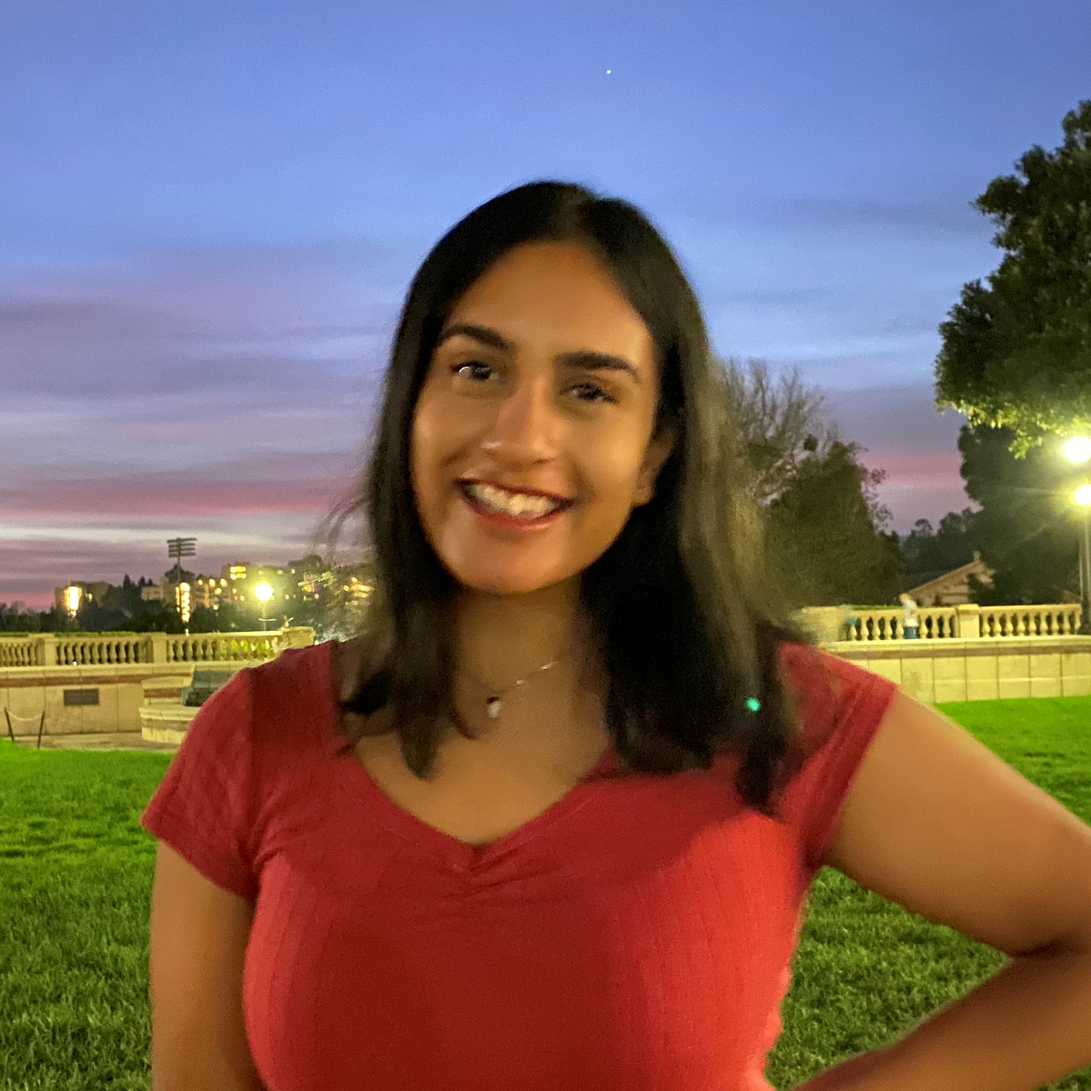
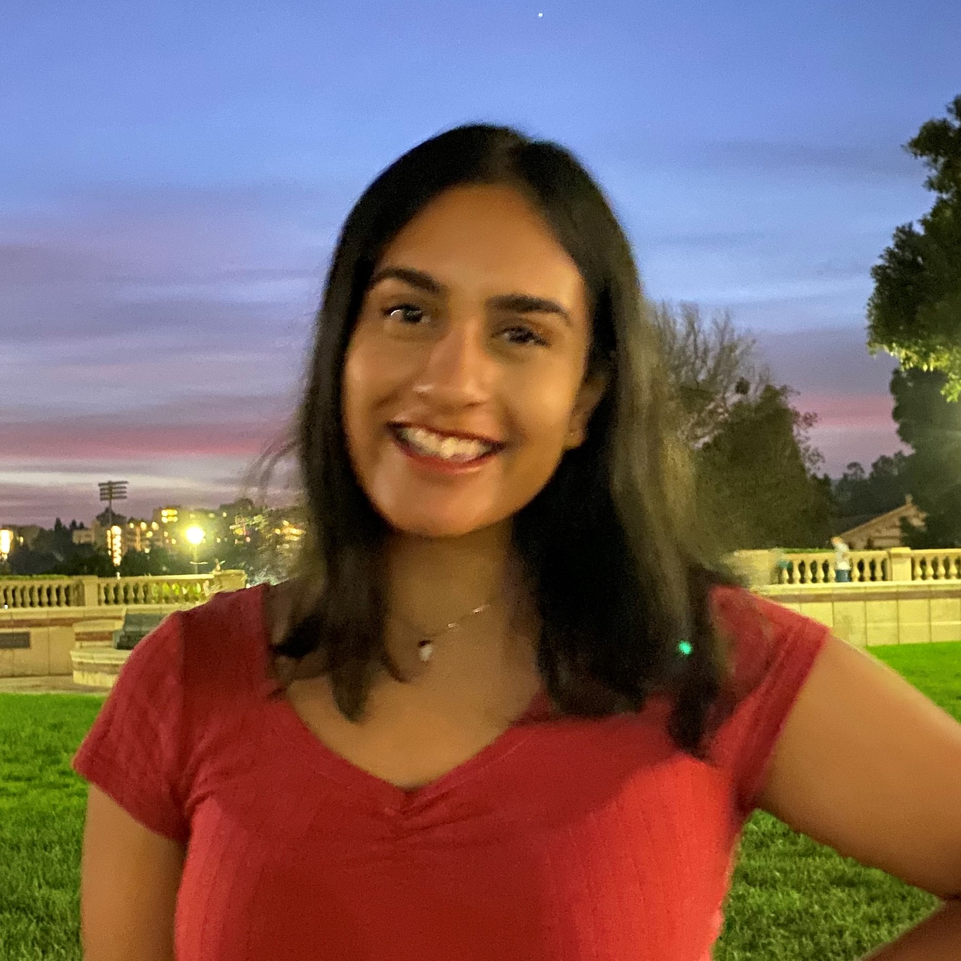
team members :)

diff --git a/src/components/About.js b/src/components/About.js
@@ -2,25 +2,224 @@ import React from 'react';
 
 function About() {
    return (
-      <div className="About" class="card yellow-scheme">
-         <h1><div>About</div></h1>
-         <div class="team">
-            <h2>Team:</h2>
-            <div class="names">
-               <div class="names-col">
-                  <div> christine kim <span class="names-pronouns">(they/she)</span></div>
-                  <div> diantha ngo <span class="names-pronouns">(she/her)</span></div>
-                  <div> karina ting <span class="names-pronouns">(she/her)</span></div>
-                  <div> rithika srinivasan <span class="names-pronouns">(she/her)</span></div>
+      <div className="About">
+         <div class="team-section card purple-scheme">
+            <div class="team-bio">
+               <img src={require("../img/christine_headshot.jpeg")} alt="christine headshot" class="team-image" width="225px" />
+               <div class="team-bio-text">
+                  <h1>Christine (Minjeong) Kim <span class="names-pronouns">(they/them)</span></h1>
+                  <div class="team-blurb">
+                     <span class="team-header">Role: </span>
+                     external co-director
+                  </div>
+                  <div class="team-blurb">
+                     <span class="team-header">Major; Year: </span>
+                     computer science, 2024
+                  </div>
                </div>
-               <div class="names-col">
-                  <div> spurthi rallapalli <span class="names-pronouns">(she/her)</span></div>
-                  <div> tanya zhong <span class="names-pronouns">(she/her)</span></div>
-                  <div> vaughn chu <span class="names-pronouns">(he/him)</span></div>
+            </div>
+            <div class="team-blurb">
+               <span class="team-header">What I Do: </span>
+               I oversee sponsorship, coprogramming, and publicity and design to make sure everything is on schedule and working in conjunction with what we need internally.
+            </div>
+            <div class="team-blurb">
+               <span class="team-header">Why: </span>
+               QWER Hacks to me is an event with the central purpose of helping marginalized individuals in the tech community feel seen and heard because we exist. Having the chance to work on the first steps of countering erasure by holding our hackathon is something I'm fortunate and grateful to be a part of.
+            </div>
+            <div class="team-blurb">
+               <span class="team-header">I'm Excited About... </span>
+               I'm really looking forward to being able to offer QWER Hacks 2022 in a hybrid format! We'll be combining the versatility and reach of the virtual aspect with the personalization and atmosphere of an in-person event.
+            </div>
+         </div>
+
+
+
+         <div class="team-section card peach-scheme">
+            <div class="team-bio">
+               <img src={require("../img/diantha_headshot.jpg")} alt="diantha headshot" class="team-image" width="225px" />
+               <div class="team-bio-text">
+                  <h1>Diantha Ngo <span class="names-pronouns">(she/her)</span></h1>
+                  <div class="team-blurb">
+                     <span class="team-header">Role: </span>
+                     media and publicity chair
+                  </div>
+                  <div class="team-blurb">
+                     <span class="team-header">Major; Year: </span>
+                     bioengineering, 2022
+                  </div>
                </div>
+            </div>
+            <div class="team-blurb">
+               <span class="team-header">What I Do: </span>
+               I'm responsible for designing QWER Hacks' visual theme and promotional materials, as well as the swag that participants receive! I also raise hell on our social media accounts.
+            </div>
+            <div class="team-blurb">
+               <span class="team-header">Why: </span>
+               I'm very happy to be able to contribute to such a welcoming and loving community, especially in the world of tech, which could benefit from more diverse voices and perspectives that I strive to empower through my work with QWER Hacks.
+            </div>
+            <div class="team-blurb">
+               <span class="team-header">I'm Excited About... </span>
+               I'm really excited about being able to host the hackathon in-person and put on another amazing event with my even more amazing organizer team! And the balloon animal artist who's going to be there, of course.
+            </div>
+         </div>
+
+
+
+         <div class="team-section card yellow-scheme">
+            <div class="team-bio">
+               <img src={require("../img/karina_headshot.jpg")} alt="karina headshot" class="team-image" width="225px" />
+               <div class="team-bio-text">
+                  <h1>Karina Ting <span class="names-pronouns">(she/her/hers)</span></h1>
+                  <div class="team-blurb">
+                     <span class="team-header">Role: </span>
+                     finance
+                  </div>
+                  <div class="team-blurb">
+                     <span class="team-header">Major; Year: </span>
+                     mechanical engnieering, 2022
+                  </div>
+               </div>
+            </div>
+            <div class="team-blurb">
+               <span class="team-header">What I Do: </span>
+               As finance chair, I help out with calculating and minimizing the costs in our budget, which include venue, catering, prizes, swag, etc. I'll also be working on funding applications so we can get money to help cover these costs.
+            </div>
+            <div class="team-blurb">
+               <span class="team-header">Why: </span>
+               I work on qwer hacks because diversity and representation in tech is so important! I feel incredibly lucky that I get to work with the everyone on the qwer hacks team to help create an inclusive and celebratory space for our community.
+            </div>
+            <div class="team-blurb">
+               <span class="team-header">I'm Excited About... </span>
+               I'm excited to see all the creative and impactful products that our hackers build!
+            </div>
+         </div>
+
+
+
+         <div class="team-section card green-scheme">
+            <div class="team-bio">
+               <img src={require("../img/rithika_headshot.jpeg")} alt="Rithika headshot" class="team-image" width="225px" />
+               <div class="team-bio-text">
+                  <h1>Rithika <span class="names-pronouns">(she/her)</span></h1>
+                  <div class="team-blurb">
+                     <span class="team-header">Role: </span>
+                     sponsorship
+                  </div>
+                  <div class="team-blurb">
+                     <span class="team-header">Major; Year: </span>
+                     computer science, 2022
+                  </div>
+               </div>
+            </div>
+            <div class="team-blurb">
+               <span class="team-header">What I Do: </span>
+               I communicate with company sponsors and assist their representatives with participating in in QWER Hacks as mentors and recruiters.
+            </div>
+            <div class="team-blurb">
+               <span class="team-header">Why: </span>
+               I have often felt intimidated by hackathons and how they focus so much on technical lessons, but QWER Hacks integrates community, identity, and technical elements all together. I work on QWER Hacks to help form an accepting culture that reminds all attendees that there is a space for them in tech.
+            </div>
+            <div class="team-blurb">
+               <span class="team-header">I'm Excited About... </span>
+               I am excited for Lil Nas X to perform at our event!! (Jk this is very much me trying to manifest it happening and likely will not be true... unless? :eyes:) BUT REGARDLESS I'M MOST EXCITED FOR THE PEOPLE AND THE VIBESSS
+            </div>
+         </div>
+
+
+
+         <div class="team-section card blue-scheme">
+            <div class="team-bio">
+               <img src={require("../img/spurthi_headshot.jpg")} alt="Spurthi headshot" class="team-image" width="225px" />
+               <div class="team-bio-text">
+                  <h1>Spurthi Rallapalli <span class="names-pronouns">(she/her/hers)</span></h1>
+                  <div class="team-blurb">
+                     <span class="team-header">Role: </span>
+                     coprogramming
+                  </div>
+                  <div class="team-blurb">
+                     <span class="team-header">Major; Year: </span>
+                     computer science, 2022
+                  </div>
+               </div>
+            </div>
+            <div class="team-blurb">
+               <span class="team-header">What I Do: </span>
+               I work on putting together speakers and workshops, and organizing volunteers and judges! Basically lots of day-of logistics!
+            </div>
+            <div class="team-blurb">
+               <span class="team-header">Why: </span>
+               I’m super passionate about creating safe and welcome spaces for people in engineering + stem, and QWER Hacks does just that! Super excited to be on the team this year 🥰
+            </div>
+            <div class="team-blurb">
+               <span class="team-header">I'm Excited About... </span>
+               Very excited to (hopefully) have an in person aspect for my last year here and also hang out with some of my favorite people in the universe!!!
+            </div>
+         </div>
+
+
+
+         <div class="team-section card indigo-scheme">
+            <div class="team-bio">
+               <img src={require("../img/tanya_headshot.png")} alt="tanya headshot" class="team-image" width="225px" />
+               <div class="team-bio-text">
+                  <h1>Tanya Zhong <span class="names-pronouns">(she/her)</span></h1>
+                  <div class="team-blurb">
+                     <span class="team-header">Role: </span>
+                     dev
+                  </div>
+                  <div class="team-blurb">
+                     <span class="team-header">Major; Year: </span>
+                     computer science, 2022
+                  </div>
+               </div>
+            </div>
+            <div class="team-blurb">
+               <span class="team-header">What I Do: </span>
+               I maintain this website and the Qwer Hacks Discord bot!
+            </div>
+            <div class="team-blurb">
+               <span class="team-header">Why: </span>
+               I feel it is my responsibility to make sure the spaces in which I work/live are as inclusive as possible. I enjoy using my web dev skills to further the gay agenda.
+            </div>
+            <div class="team-blurb">
+               <span class="team-header">I'm Excited About... </span>
+               interacting with our lovely hackers in person! (hopefully)
+            </div>
+         </div>
+
+
+
+         <div class="team-section card purple-scheme">
+            <div class="team-bio">
+               <img src={require("../img/vaughn_headshot.jpg")} alt="Vaughn headshot" class="team-image" width="225px" />
+               <div class="team-bio-text">
+                  <h1>Vaughn Chu <span class="names-pronouns">(he/him/his)</span></h1>
+                  <div class="team-blurb">
+                     <span class="team-header">Role: </span>
+                     internal technical director
+                  </div>
+                  <div class="team-blurb">
+                     <span class="team-header">Major; Year: </span>
+                     electrical engineering, 2024
+                  </div>
+               </div>
+            </div>
+            <div class="team-blurb">
+               <span class="team-header">What I Do: </span>
+               I lead the internal committee of QWER Hacks, where my primary role is to provide needed resources, support, and leadership to my team. I ensure that we are working on schedule, getting all of our logistics organized, and improving QWER Hacks in any way possible!
+            </div>
+            <div class="team-blurb">
+               <span class="team-header">Why: </span>
+               I work on QWER Hacks because I care about bringing more visibility to the queer and trans community worldwide and creating a space where people like us can feel safe. Being a part of this team has given me the opportunity to be around amazing and passionate people who share these same missions and goals.
+            </div>
+            <div class="team-blurb">
+               <span class="team-header">I'm Excited About... </span>
+               I'm excited to meet all of our attendees and hear your stories. Personally, QWER Hacks has given me the space to discover my own identity, become more empowered, and grow into the person I am now, and I'm excited for this to be shared with all of you!
             </div>
          </div>
       </div>
+
+
    );
 }
 

diff --git a/src/index.scss b/src/index.scss
@@ -60,7 +60,8 @@ h2,
 h3,
 h4,
 h5,
-h6 {
+h6,
+.team-header {
   font-family: "kenokylight", sans-serif;
   letter-spacing: 3px;
   margin-top: 0.3em;
@@ -88,7 +89,8 @@ h6 {
   a {
     color: $text-purple;
   }
-  .tracks-image {
+  .tracks-image,
+  .team-image {
     filter: drop-shadow(0 0 1rem $palette-purple);
   }
 }
@@ -99,7 +101,8 @@ h6 {
   a {
     color: $text-peach;
   }
-  .tracks-image {
+  .tracks-image,
+  .team-image {
     filter: drop-shadow(0 0 1rem $palette-peach);
   }
 }
@@ -110,7 +113,8 @@ h6 {
   a {
     color: $text-yellow;
   }
-  .tracks-image {
+  .tracks-image,
+  .team-image {
     filter: drop-shadow(0 0 1rem $palette-yellow);
   }
 }
@@ -121,7 +125,8 @@ h6 {
   a {
     color: $text-indigo;
   }
-  .tracks-image {
+  .tracks-image,
+  .team-image {
     filter: drop-shadow(0 0 1rem $palette-indigo);
   }
 }
@@ -132,7 +137,8 @@ h6 {
   a {
     color: $text-blue;
   }
-  .tracks-image {
+  .tracks-image,
+  .team-image {
     filter: drop-shadow(0 0 1rem $palette-blue);
   }
 }
@@ -143,7 +149,8 @@ h6 {
   a {
     color: $text-green;
   }
-  .tracks-image {
+  .tracks-image,
+  .team-image {
     filter: drop-shadow(0 0 1rem $palette-green);
   }
 }
@@ -335,6 +342,41 @@ a.active .mobile-home-button {
     margin-top: 0.5em;
   }
 }
+
+///////////////// TEAM /////////////////
+.team {
+  &-section {
+    margin-right: auto;
+    margin-bottom: 30px;
+    margin-left: auto;
+    display: flex;
+    flex-direction: column;
+    max-width: 60vw;
+    font-size: x-small;
+  }
+  &-bio {
+    display: flex;
+    flex-direction: row;
+    .team-blurb {
+      font-size: medium;
+      margin-top: 32px;
+    }
+  }
+  &-image {
+    margin-right: 30px;
+    margin-bottom: 10px;
+    max-width: 150px;
+    max-height: 150px;
+  }
+  &-header {
+    font-weight: bold;
+    font-size: medium;
+  }
+  &-blurb {
+    margin-top: 20px;
+  }
+}
+
 ////////////////////// FOOTER ///////////////////////////
 .footer {
   padding-top: 170px;
@@ -384,10 +426,6 @@ a.active .mobile-home-button {
     display: block;
     margin-left: 8px;
   }
-}
-
-.team {
-  margin-top: 2em;
 }
 
 .names {
